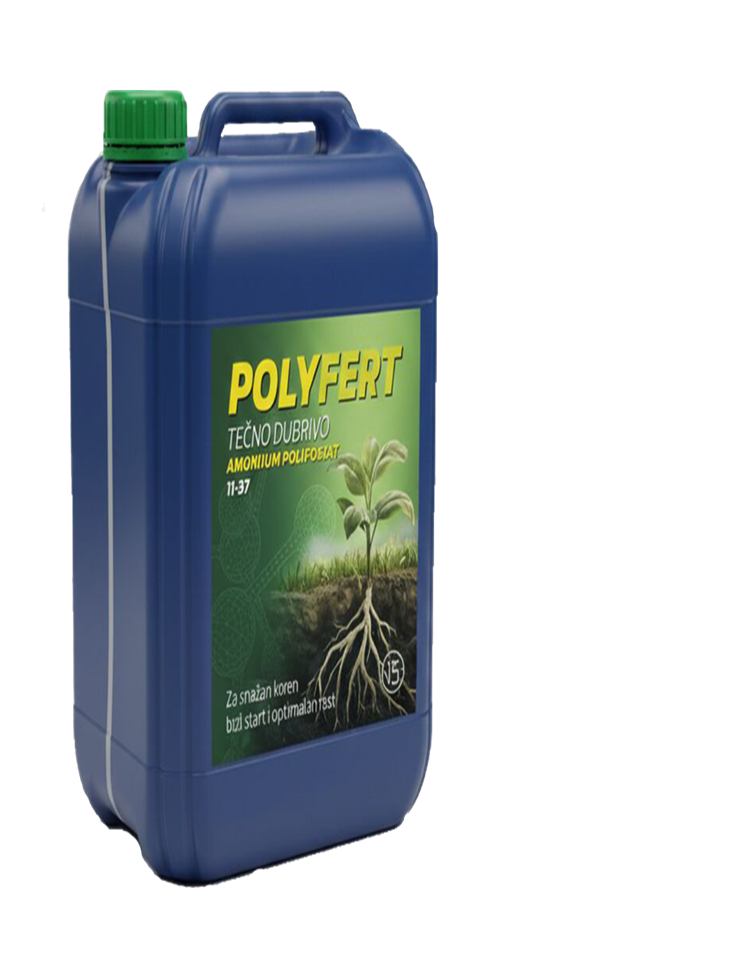
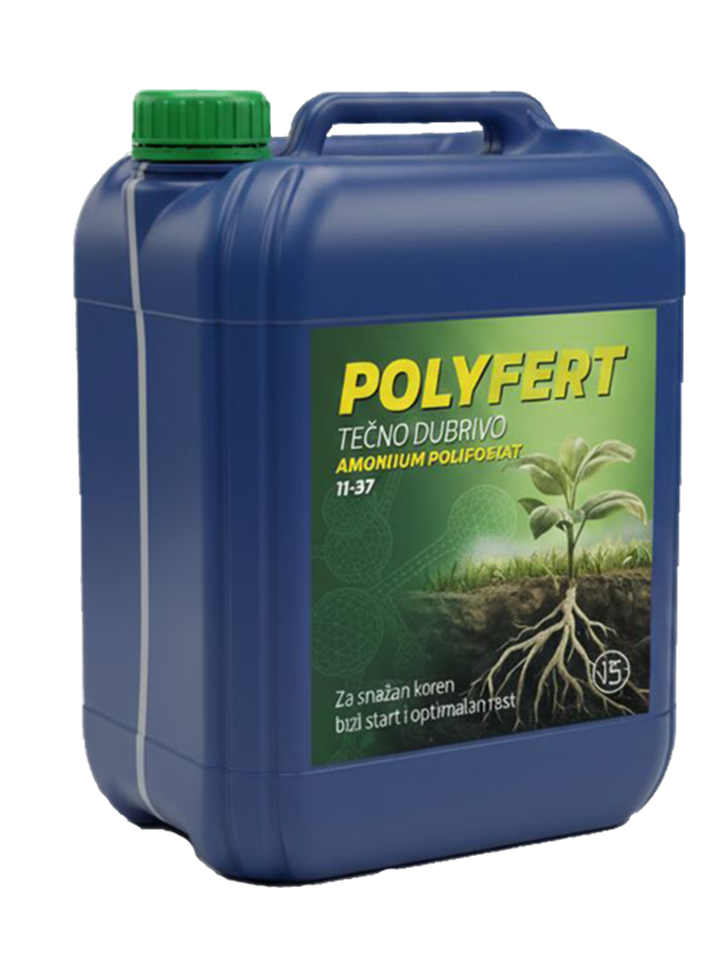
Proizvodi: POLYFERT kanister ispravljen — prethodna slika bila je spljoštena i odsečena; sada iz originala, jednako uvećan u obe ose, iste visine kao ostali proizvodi

diff --git a/strane/ro/proizvodi.html b/strane/ro/proizvodi.html
@@ -33,7 +33,7 @@
 
     <!-- POLYFERT 11-37 -->
     <article class="detalj" aria-labelledby="polyfert-naslov">
-      <div class="detalj__slika detalj__slika--foto detalj__slika--prozirna"><img src="{{KOREN}}img/polyfert-kanister.png" alt="Canistră POLYFERT 11-37 de 14 kg" width="740" height="960" loading="lazy"></div>
+      <div class="detalj__slika detalj__slika--foto detalj__slika--prozirna"><img src="{{KOREN}}img/polyfert-kanister.png" alt="Canistră POLYFERT 11-37 de 14 kg" width="715" height="960" loading="lazy"></div>
       <div id="polyfert" class="detalj__tekst">
         <span class="oznaka">Îngrășământ lichid</span>
         <h3 id="polyfert-naslov">POLYFERT 11-37</h3>

diff --git a/docs/ro/proizvodi.html b/docs/ro/proizvodi.html
@@ -118,7 +118,7 @@
 
     <!-- POLYFERT 11-37 -->
     <article class="detalj" aria-labelledby="polyfert-naslov">
-      <div class="detalj__slika detalj__slika--foto detalj__slika--prozirna"><img src="../img/polyfert-kanister.png" alt="Canistră POLYFERT 11-37 de 14 kg" width="740" height="960" loading="lazy"></div>
+      <div class="detalj__slika detalj__slika--foto detalj__slika--prozirna"><img src="../img/polyfert-kanister.png" alt="Canistră POLYFERT 11-37 de 14 kg" width="715" height="960" loading="lazy"></div>
       <div id="polyfert" class="detalj__tekst">
         <span class="oznaka">Îngrășământ lichid</span>
         <h3 id="polyfert-naslov">POLYFERT 11-37</h3>

diff --git a/strane/hu/proizvodi.html b/strane/hu/proizvodi.html
@@ -33,7 +33,7 @@
 
     <!-- POLYFERT 11-37 -->
     <article class="detalj" aria-labelledby="polyfert-naslov">
-      <div class="detalj__slika detalj__slika--foto detalj__slika--prozirna"><img src="{{KOREN}}img/polyfert-kanister.png" alt="14 kg-os POLYFERT 11-37 kanna" width="740" height="960" loading="lazy"></div>
+      <div class="detalj__slika detalj__slika--foto detalj__slika--prozirna"><img src="{{KOREN}}img/polyfert-kanister.png" alt="14 kg-os POLYFERT 11-37 kanna" width="715" height="960" loading="lazy"></div>
       <div id="polyfert" class="detalj__tekst">
         <span class="oznaka">Folyékony műtrágya</span>
         <h3 id="polyfert-naslov">POLYFERT 11-37</h3>

diff --git a/strane/sr/proizvodi.html b/strane/sr/proizvodi.html
@@ -33,7 +33,7 @@
 
     <!-- POLYFERT 11-37 -->
     <article class="detalj" aria-labelledby="polyfert-naslov">
-      <div class="detalj__slika detalj__slika--foto detalj__slika--prozirna"><img src="{{KOREN}}img/polyfert-kanister.png" alt="Kanister POLYFERT 11-37 od 14 kg" width="740" height="960" loading="lazy"></div>
+      <div class="detalj__slika detalj__slika--foto detalj__slika--prozirna"><img src="{{KOREN}}img/polyfert-kanister.png" alt="Kanister POLYFERT 11-37 od 14 kg" width="715" height="960" loading="lazy"></div>
       <div id="polyfert" class="detalj__tekst">
         <span class="oznaka">Tečno đubrivo</span>
         <h3 id="polyfert-naslov">POLYFERT 11-37</h3>

diff --git a/docs/hu/proizvodi.html b/docs/hu/proizvodi.html
@@ -118,7 +118,7 @@
 
     <!-- POLYFERT 11-37 -->
     <article class="detalj" aria-labelledby="polyfert-naslov">
-      <div class="detalj__slika detalj__slika--foto detalj__slika--prozirna"><img src="../img/polyfert-kanister.png" alt="14 kg-os POLYFERT 11-37 kanna" width="740" height="960" loading="lazy"></div>
+      <div class="detalj__slika detalj__slika--foto detalj__slika--prozirna"><img src="../img/polyfert-kanister.png" alt="14 kg-os POLYFERT 11-37 kanna" width="715" height="960" loading="lazy"></div>
       <div id="polyfert" class="detalj__tekst">
         <span class="oznaka">Folyékony műtrágya</span>
         <h3 id="polyfert-naslov">POLYFERT 11-37</h3>

diff --git a/docs/proizvodi.html b/docs/proizvodi.html
@@ -118,7 +118,7 @@
 
     <!-- POLYFERT 11-37 -->
     <article class="detalj" aria-labelledby="polyfert-naslov">
-      <div class="detalj__slika detalj__slika--foto detalj__slika--prozirna"><img src="img/polyfert-kanister.png" alt="Kanister POLYFERT 11-37 od 14 kg" width="740" height="960" loading="lazy"></div>
+      <div class="detalj__slika detalj__slika--foto detalj__slika--prozirna"><img src="img/polyfert-kanister.png" alt="Kanister POLYFERT 11-37 od 14 kg" width="715" height="960" loading="lazy"></div>
       <div id="polyfert" class="detalj__tekst">
         <span class="oznaka">Tečno đubrivo</span>
         <h3 id="polyfert-naslov">POLYFERT 11-37</h3>

diff --git a/strane/ro/index.html b/strane/ro/index.html
@@ -102,7 +102,7 @@
     </div>
     <div class="mreza-proizvoda">
       <a class="proizvod" href="proizvodi.html#polyfert">
-        <div class="proizvod__slika proizvod__slika--foto proizvod__slika--prozirna"><img src="{{KOREN}}img/polyfert-kanister.png" alt="" width="740" height="960" loading="lazy"></div>
+        <div class="proizvod__slika proizvod__slika--foto proizvod__slika--prozirna"><img src="{{KOREN}}img/polyfert-kanister.png" alt="" width="715" height="960" loading="lazy"></div>
         <div class="proizvod__telo">
           <span class="proizvod__linija">Îngrășământ lichid</span>
           <h3>POLYFERT 11-37</h3>

diff --git a/strane/hu/index.html b/strane/hu/index.html
@@ -102,7 +102,7 @@
     </div>
     <div class="mreza-proizvoda">
       <a class="proizvod" href="proizvodi.html#polyfert">
-        <div class="proizvod__slika proizvod__slika--foto proizvod__slika--prozirna"><img src="{{KOREN}}img/polyfert-kanister.png" alt="" width="740" height="960" loading="lazy"></div>
+        <div class="proizvod__slika proizvod__slika--foto proizvod__slika--prozirna"><img src="{{KOREN}}img/polyfert-kanister.png" alt="" width="715" height="960" loading="lazy"></div>
         <div class="proizvod__telo">
           <span class="proizvod__linija">Folyékony műtrágya</span>
           <h3>POLYFERT 11-37</h3>

diff --git a/strane/sr/index.html b/strane/sr/index.html
@@ -94,7 +94,7 @@
     </div>
     <div class="mreza-proizvoda">
       <a class="proizvod" href="proizvodi.html#polyfert">
-        <div class="proizvod__slika proizvod__slika--foto proizvod__slika--prozirna"><img src="{{KOREN}}img/polyfert-kanister.png" alt="" width="740" height="960" loading="lazy"></div>
+        <div class="proizvod__slika proizvod__slika--foto proizvod__slika--prozirna"><img src="{{KOREN}}img/polyfert-kanister.png" alt="" width="715" height="960" loading="lazy"></div>
         <div class="proizvod__telo">
           <span class="proizvod__linija">Tečno đubrivo</span>
           <h3>POLYFERT 11-37</h3>

diff --git a/docs/ro/index.html b/docs/ro/index.html
@@ -186,7 +186,7 @@
     </div>
     <div class="mreza-proizvoda">
       <a class="proizvod" href="proizvodi.html#polyfert">
-        <div class="proizvod__slika proizvod__slika--foto proizvod__slika--prozirna"><img src="../img/polyfert-kanister.png" alt="" width="740" height="960" loading="lazy"></div>
+        <div class="proizvod__slika proizvod__slika--foto proizvod__slika--prozirna"><img src="../img/polyfert-kanister.png" alt="" width="715" height="960" loading="lazy"></div>
         <div class="proizvod__telo">
           <span class="proizvod__linija">Îngrășământ lichid</span>
           <h3>POLYFERT 11-37</h3>

diff --git a/docs/hu/index.html b/docs/hu/index.html
@@ -186,7 +186,7 @@
     </div>
     <div class="mreza-proizvoda">
       <a class="proizvod" href="proizvodi.html#polyfert">
-        <div class="proizvod__slika proizvod__slika--foto proizvod__slika--prozirna"><img src="../img/polyfert-kanister.png" alt="" width="740" height="960" loading="lazy"></div>
+        <div class="proizvod__slika proizvod__slika--foto proizvod__slika--prozirna"><img src="../img/polyfert-kanister.png" alt="" width="715" height="960" loading="lazy"></div>
         <div class="proizvod__telo">
           <span class="proizvod__linija">Folyékony műtrágya</span>
           <h3>POLYFERT 11-37</h3>

diff --git a/docs/index.html b/docs/index.html
@@ -178,7 +178,7 @@
     </div>
     <div class="mreza-proizvoda">
       <a class="proizvod" href="proizvodi.html#polyfert">
-        <div class="proizvod__slika proizvod__slika--foto proizvod__slika--prozirna"><img src="img/polyfert-kanister.png" alt="" width="740" height="960" loading="lazy"></div>
+        <div class="proizvod__slika proizvod__slika--foto proizvod__slika--prozirna"><img src="img/polyfert-kanister.png" alt="" width="715" height="960" loading="lazy"></div>
         <div class="proizvod__telo">
           <span class="proizvod__linija">Tečno đubrivo</span>
           <h3>POLYFERT 11-37</h3>
